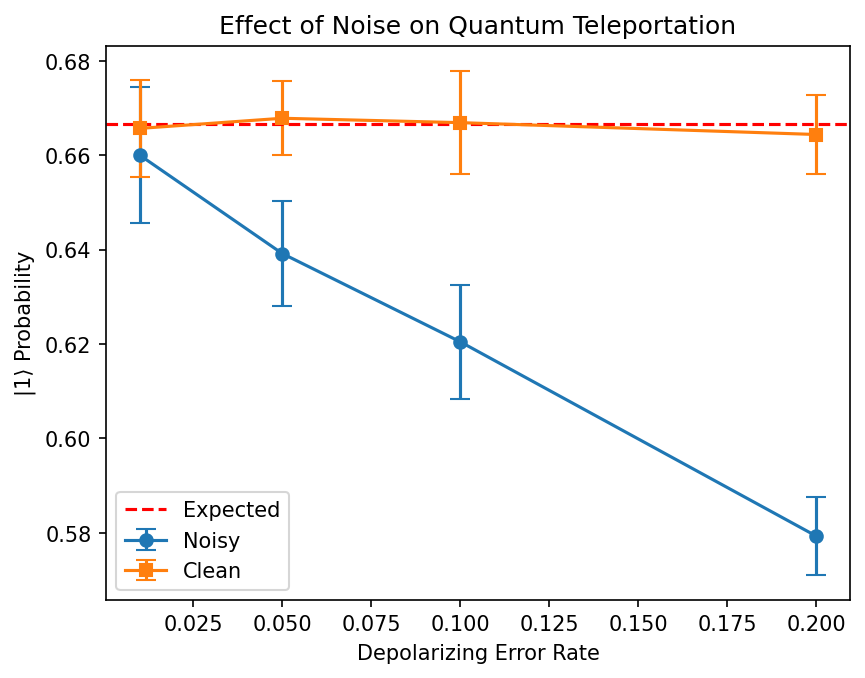
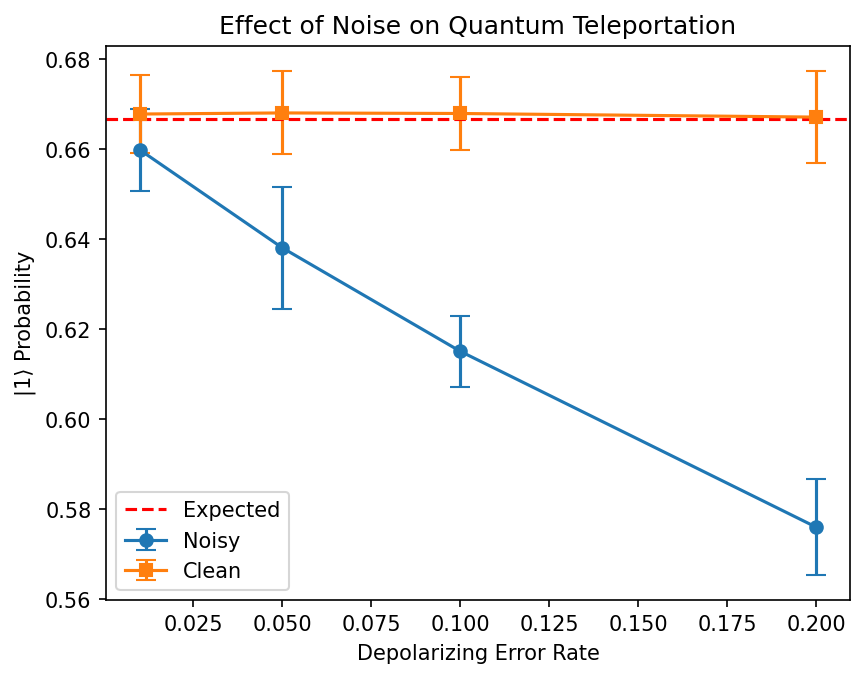
Added entropy and fidelity

diff --git a/src/Part_2_Quantum_Teleportation/QuantumTeleportation.py b/src/Part_2_Quantum_Teleportation/QuantumTeleportation.py
@@ -2,8 +2,13 @@ from qiskit import QuantumCircuit, QuantumRegister, ClassicalRegister, transpile
 from qiskit_aer import AerSimulator
 from qiskit_aer.noise import NoiseModel, depolarizing_error
 from qiskit.visualization import plot_histogram
+from qiskit.quantum_info import DensityMatrix, entropy as vn_entropy, state_fidelity, Statevector
 import numpy as np
 import matplotlib.pyplot as plt
+import os
+
+os.makedirs("figures", exist_ok=True)
+os.makedirs("results",  exist_ok=True)
 
 alice1 = QuantumRegister(1, "alice1")
 alice2 = QuantumRegister(1, "alice2")
@@ -12,10 +17,18 @@ c0 = ClassicalRegister(1, "c0")
 c1 = ClassicalRegister(1, "c1")
 c2 = ClassicalRegister(1, "c2")
 
-def build_circuit():
+# Alice's input state: ry(theta)|0>, theta = 2*arccos(1/sqrt(3))
+# Gives |psi> = (1/sqrt(3))|0> + sqrt(2/3)|1>, i.e. P(0)=1/3, P(1)=2/3
+THETA = 2 * np.arccos(1 / np.sqrt(3))
+ALICE_INPUT = Statevector([1 / np.sqrt(3), np.sqrt(2 / 3)])
+
+def build_circuit(density_matrix=False):
+    """
+    density_matrix=False: measure Bob's qubit (normal simulation).
+    density_matrix=True:  save Bob's reduced density matrix instead (for entropy/fidelity).
+    """
     qc = QuantumCircuit(alice1, alice2, bob1, c0, c1, c2)
-    theta = 2 * np.arccos(1/np.sqrt(3))
-    qc.ry(theta, alice1)
+    qc.ry(THETA, alice1)
     qc.h(bob1)
     qc.cx(bob1, alice2)
     qc.cx(alice1, alice2)
@@ -26,14 +39,17 @@ def build_circuit():
         qc.x(bob1)
     with qc.if_test((c0, 1)):
         qc.z(bob1)
-    qc.measure(bob1, c2)
+    if density_matrix:
+        qc.save_density_matrix(qubits=[bob1[0]], label="bob_dm")
+    else:
+        qc.measure(bob1, c2)
     return qc
 
 def bob_stats(counts):
-    zero = sum(v for k, v in counts.items() if k[0] == '0')
-    one  = sum(v for k, v in counts.items() if k[0] == '1')
+    zero  = sum(v for k, v in counts.items() if k[0] == '0')
+    one   = sum(v for k, v in counts.items() if k[0] == '1')
     total = zero + one
-    return zero/total, one/total
+    return zero / total, one / total
 
 def filter_bob(counts):
     bob_counts = {'0': 0, '1': 0}
@@ -41,40 +57,59 @@ def filter_bob(counts):
         bob_counts[k[0]] += v
     return bob_counts
 
-def run(noise=False, shots=1024, error_rate=0.01):
-    qc = build_circuit()
+def run(noise=False, shots=1024, error_rate=0.01, density_matrix=False):
+    """
+    density_matrix=False: returns counts dict (normal simulation).
+    density_matrix=True:  returns Bob's DensityMatrix (for entropy/fidelity).
+    """
+    qc = build_circuit(density_matrix=density_matrix)
+    sim_kwargs = {}
+    if density_matrix:
+        sim_kwargs["method"] = "density_matrix"
     if noise:
-        noise_model = NoiseModel()
-        noise_model.add_all_qubit_quantum_error(depolarizing_error(error_rate, 1), ['h', 'ry'])
-        noise_model.add_all_qubit_quantum_error(depolarizing_error(error_rate, 2), ['cx'])
-        sim = AerSimulator(noise_model=noise_model)
-    else:
-        sim = AerSimulator()
+        nm = NoiseModel()
+        nm.add_all_qubit_quantum_error(depolarizing_error(error_rate, 1), ['h', 'ry'])
+        nm.add_all_qubit_quantum_error(depolarizing_error(error_rate, 2), ['cx'])
+        sim_kwargs["noise_model"] = nm
+    sim = AerSimulator(**sim_kwargs)
     compiled = transpile(qc, sim, optimization_level=0)
     result = sim.run(compiled, shots=shots).result()
+    if density_matrix:
+        return DensityMatrix(result.data()["bob_dm"])
     return result.get_counts()
 
 print(f"Expected: |0⟩: {1/3:.3f}, |1⟩: {2/3:.3f}\n")
 
-# Part 1: vary shot counts
+# ── Part 1: Shot count dependence ─────────────────────────────────────────────
 print("=== Shot count dependence ===")
-for shots in [512, 1024, 2048, 4096]:
+shot_counts_list = [512, 1024, 2048, 4096]
+shot_p1_vals = []
+for shots in shot_counts_list:
     counts = run(noise=False, shots=shots)
     z, o = bob_stats(counts)
+    shot_p1_vals.append(o)
     print(f"shots={shots:5d} | |0⟩: {z:.3f}, |1⟩: {o:.3f}")
 
-# Part 2: multiple trials at 2048 shots clean
+np.savez("results/shot_dependence.npz",
+         shots=shot_counts_list,
+         p1=shot_p1_vals)
+
+# ── Part 2: Multiple trials at 2048 shots (clean) ─────────────────────────────
 print("\n=== Multiple trials at 2048 shots (clean) ===")
 trials = 20
 clean_results = [bob_stats(run(noise=False, shots=2048))[1] for _ in range(trials)]
 print(f"|1⟩ mean: {np.mean(clean_results):.3f}, std dev: {np.std(clean_results):.3f}")
 
-# Part 3: multiple trials at 2048 shots noisy
+np.savez("results/clean_trials_2048.npz", p1_trials=clean_results)
+
+# ── Part 3: Multiple trials at 2048 shots (noisy) ─────────────────────────────
 print("\n=== Multiple trials at 2048 shots (noisy) ===")
 noisy_results = [bob_stats(run(noise=True, shots=2048))[1] for _ in range(trials)]
 print(f"|1⟩ mean: {np.mean(noisy_results):.3f}, std dev: {np.std(noisy_results):.3f}")
 
-# Part 4: vary error rates for both clean and noisy
+np.savez("results/noisy_trials_2048.npz", p1_trials=noisy_results)
+
+# ── Part 4: Error rate dependence ─────────────────────────────────────────────
 print("\n=== Error rate dependence ===")
 error_rates = [0.01, 0.05, 0.10, 0.20]
 clean_means, clean_stds = [], []
@@ -89,7 +124,11 @@ for rate in error_rates:
     noisy_stds.append(np.std(n_trials))
     print(f"error={rate:.2f} | clean: {clean_means[-1]:.3f} noisy: {noisy_means[-1]:.3f}")
 
-# Plot error rate dependence
+np.savez("results/error_rate_dependence.npz",
+         error_rates=error_rates,
+         clean_means=clean_means, clean_stds=clean_stds,
+         noisy_means=noisy_means, noisy_stds=noisy_stds)
+
 plt.figure()
 plt.errorbar(error_rates, noisy_means, yerr=noisy_stds, fmt='o-', capsize=5, label='Noisy')
 plt.errorbar(error_rates, clean_means, yerr=clean_stds, fmt='s-', capsize=5, label='Clean')
@@ -100,15 +139,76 @@ plt.title('Effect of Noise on Quantum Teleportation')
 plt.legend()
 plt.savefig('figures/noise_effect.png', dpi=150, bbox_inches='tight')
 
-# Histogram of clean vs noisy counts at 1% error
 clean_counts = filter_bob(run(noise=False, shots=2048))
-noisy_counts = filter_bob(run(noise=True, shots=2048, error_rate=0.01))
+noisy_counts = filter_bob(run(noise=True,  shots=2048, error_rate=0.01))
 fig = plot_histogram([clean_counts, noisy_counts], legend=['Clean', 'Noisy'],
                      title="Bob's Qubit State: Clean vs Noisy",
                      bar_labels=True)
 fig.savefig('figures/histogram.png', dpi=150, bbox_inches='tight')
 
-build_circuit().draw("mpl").savefig("figures/teleportation_circuit.png", dpi=150, bbox_inches="tight")
+build_circuit().draw("mpl").savefig("figures/teleportation_circuit.png", dpi=150, bbox_inches="tight")  # default density_matrix=False
 plt.close('all')
 
-print("\nPlots saved to figures/")
+# ── Part 5: Von Neumann Entropy and Fidelity vs Error Rate ────────────────────
+# Von Neumann entropy S = -Tr(rho log2 rho) on Bob's reduced density matrix.
+#   S = 0  →  pure state, no information lost
+#   S = 1  →  maximally mixed qubit, total information loss
+#
+# Fidelity F = <psi|rho_bob|psi> where |psi> is Alice's input state.
+#   F = 1  →  Bob's state perfectly matches Alice's input
+#   F = 0.5 → Bob has no information about the input (random guess baseline)
+
+print("\n=== Von Neumann Entropy and Fidelity vs Depolarizing Error Rate ===")
+print(f"{'Error rate':>12} | {'S (bits)':>10} | {'Fidelity':>10}")
+print("-" * 40)
+
+# Include error_rate=0 as noiseless baseline
+dm_error_rates = [0.0] + error_rates
+entropy_values  = []
+fidelity_values = []
+
+for rate in dm_error_rates:
+    dm = run(noise=(rate > 0), error_rate=rate, density_matrix=True, shots=4096)
+    S  = float(vn_entropy(dm, base=2))
+    F  = float(state_fidelity(ALICE_INPUT, dm))
+    entropy_values.append(S)
+    fidelity_values.append(F)
+    label = "clean" if rate == 0.0 else f"{rate:.2f}"
+    print(f"{label:>12} | {S:>10.4f} | {F:>10.4f}")
+
+np.savez("results/entropy_fidelity.npz",
+         error_rates=dm_error_rates,
+         entropy=entropy_values,
+         fidelity=fidelity_values)
+
+# Plot entropy and fidelity on the same axes with dual y-axis
+fig, ax1 = plt.subplots(figsize=(7, 4))
+
+color_S = 'steelblue'
+color_F = 'darkorange'
+
+ax1.set_xlabel('Depolarizing Error Rate')
+ax1.set_ylabel('Von Neumann Entropy  S  [bits]', color=color_S)
+ax1.plot(dm_error_rates, entropy_values, 'o-', color=color_S, label='Entropy S')
+ax1.axhline(1.0, color=color_S, linestyle=':', linewidth=0.8, label='Max mixed (S=1)')
+ax1.tick_params(axis='y', labelcolor=color_S)
+ax1.set_ylim(-0.05, 1.1)
+
+ax2 = ax1.twinx()
+ax2.set_ylabel("Fidelity  F = ⟨ψ|ρ_bob|ψ⟩", color=color_F)
+ax2.plot(dm_error_rates, fidelity_values, 's--', color=color_F, label='Fidelity F')
+ax2.axhline(0.5, color=color_F, linestyle=':', linewidth=0.8, label='Random baseline (F=0.5)')
+ax2.tick_params(axis='y', labelcolor=color_F)
+ax2.set_ylim(0.45, 1.05)
+
+lines1, labels1 = ax1.get_legend_handles_labels()
+lines2, labels2 = ax2.get_legend_handles_labels()
+ax1.legend(lines1 + lines2, labels1 + labels2, loc='center right', fontsize=8)
+
+plt.title("Information Loss vs Noise\n(Bob's qubit, Quantum Teleportation)")
+fig.tight_layout()
+fig.savefig('figures/entropy_fidelity_vs_noise.png', dpi=150, bbox_inches='tight')
+plt.close('all')
+
+print("\nAll numerical results saved to results/")
+print("All plots saved to figures/")
